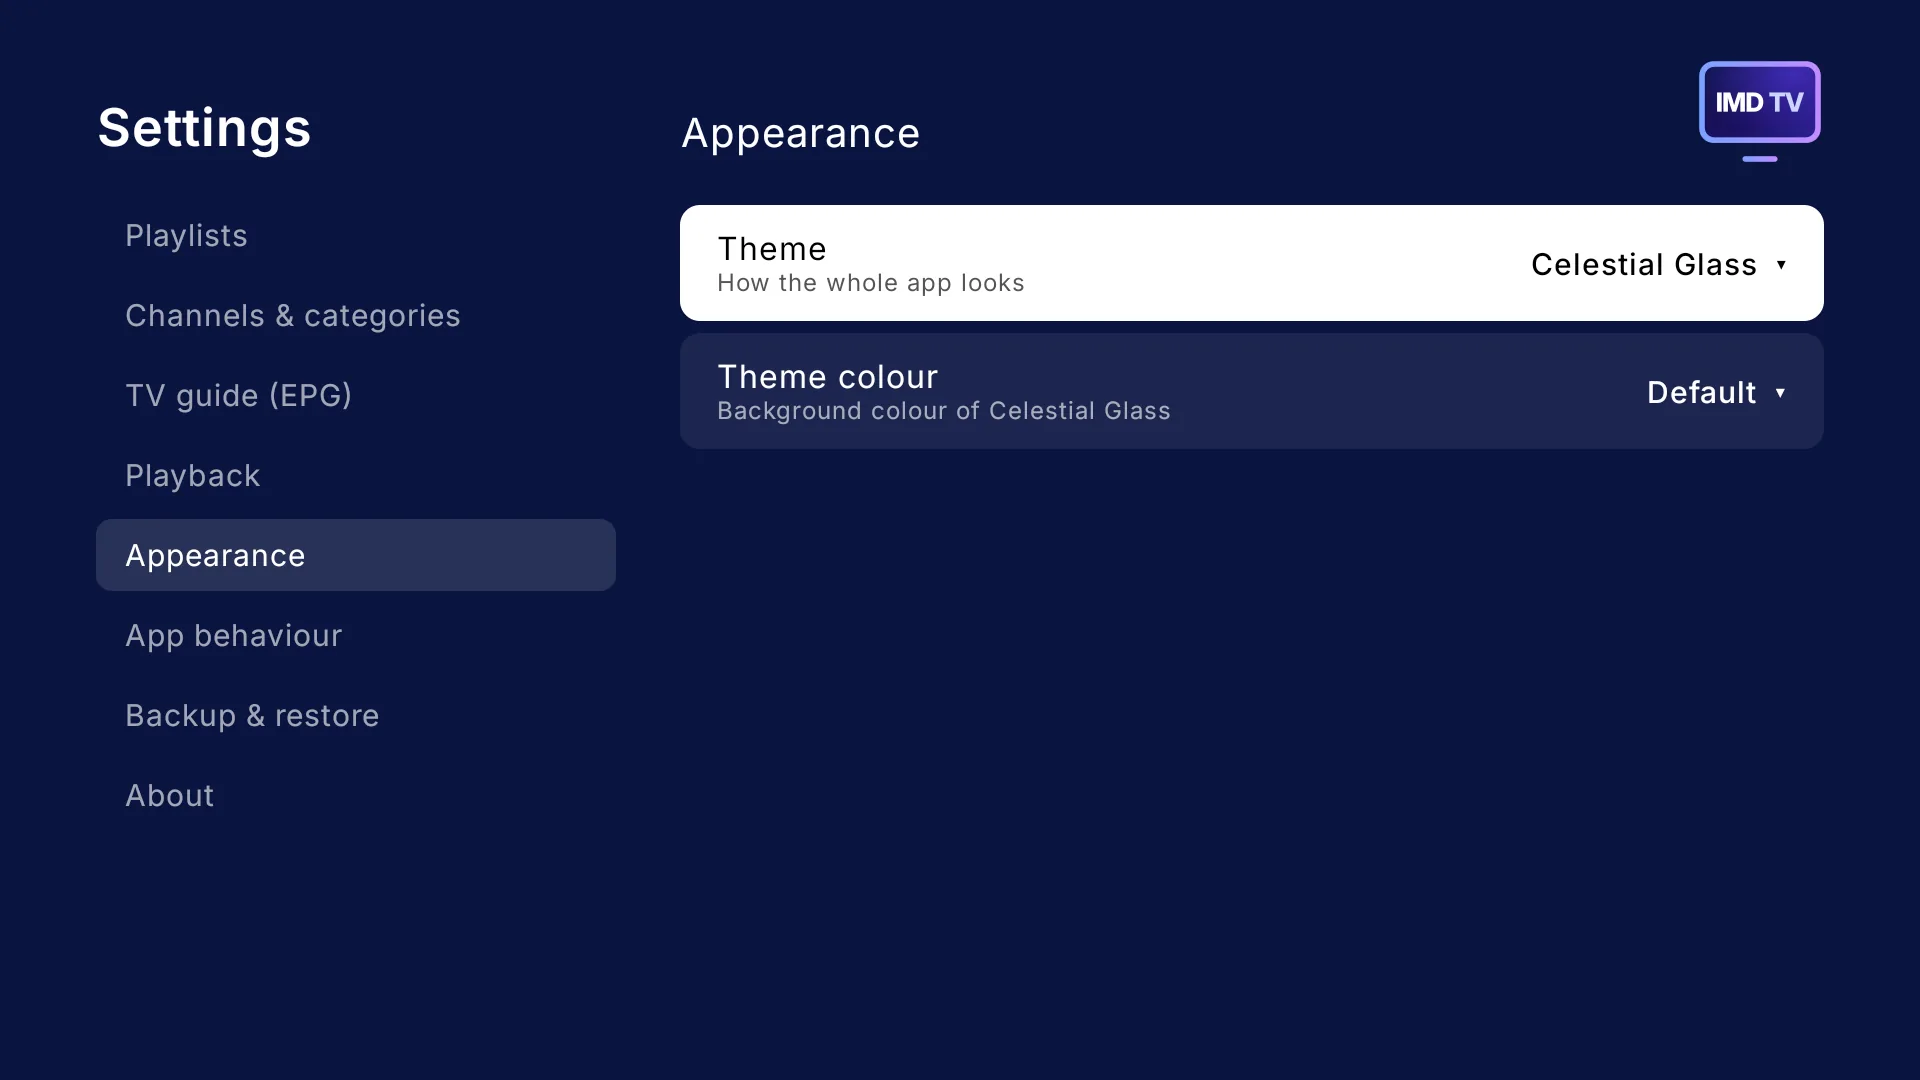
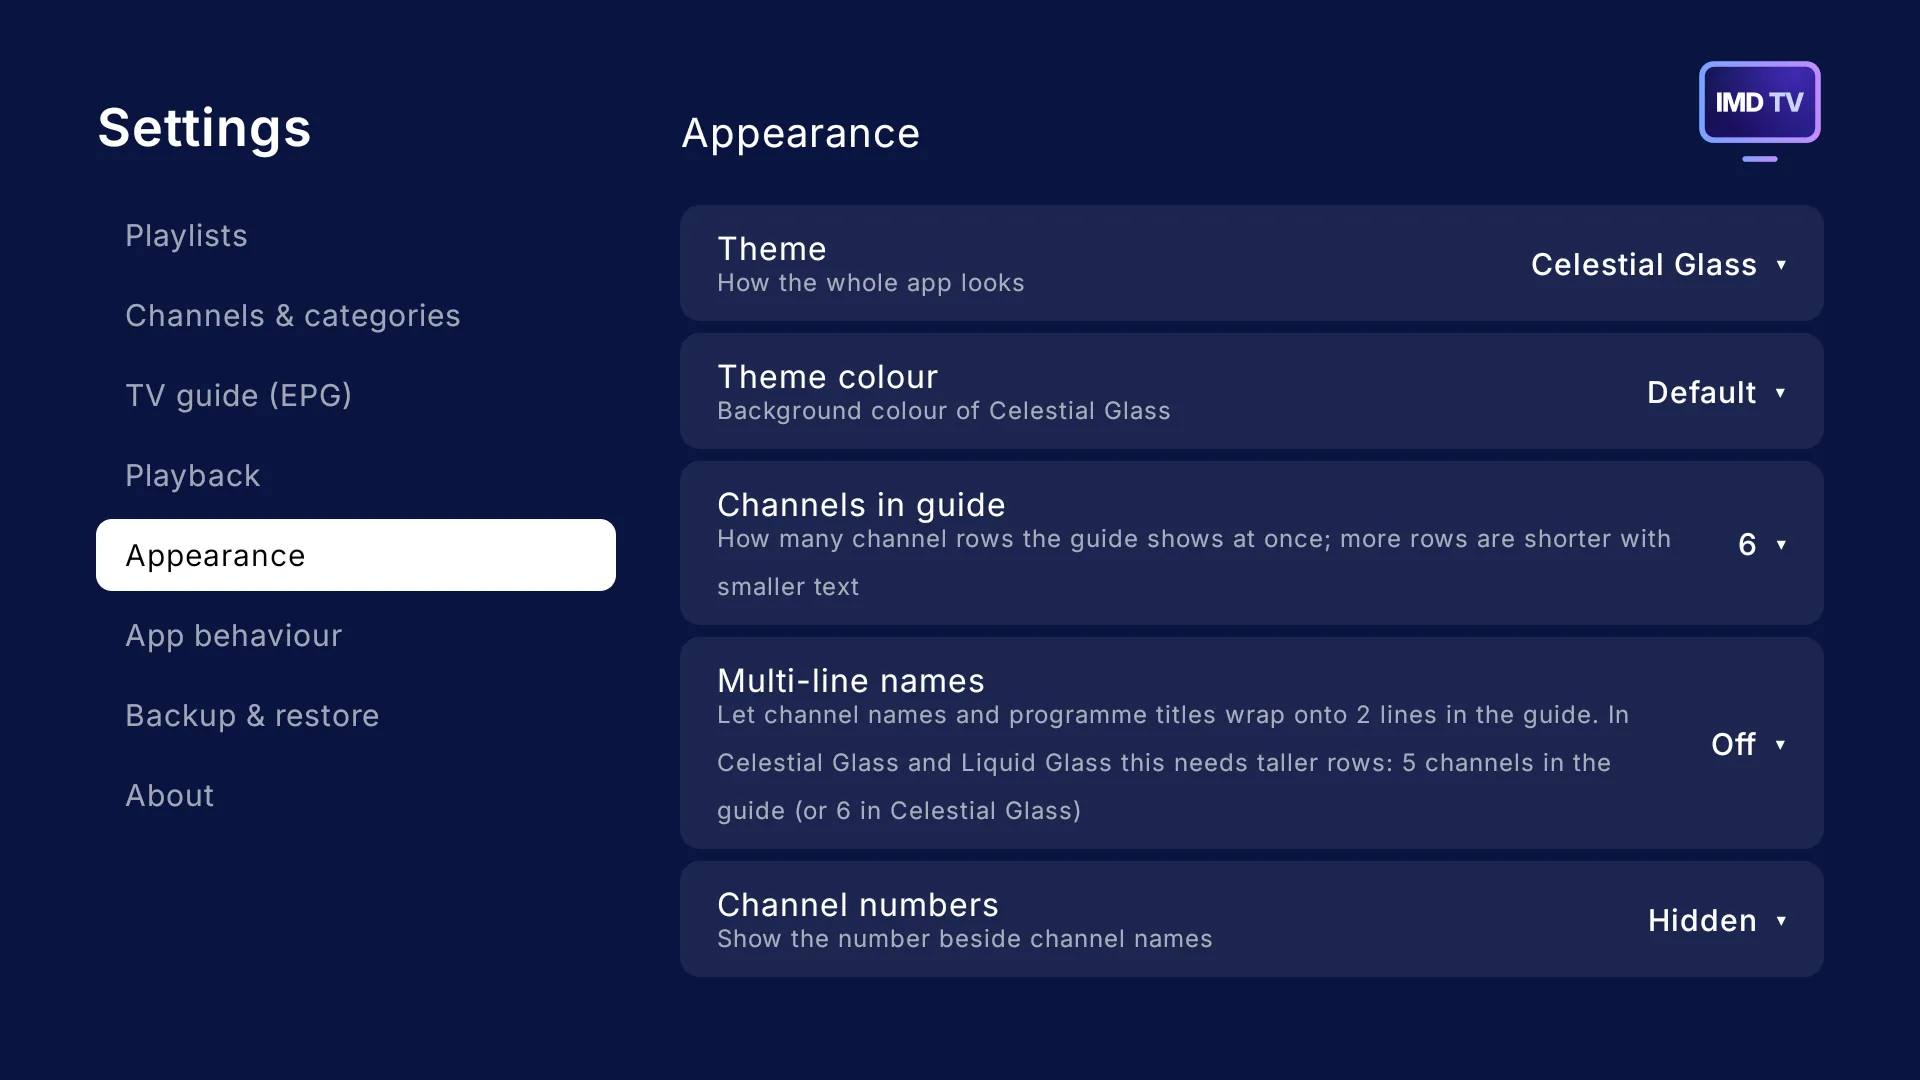
Site: settings screenshots for Appearance and App behaviour (0.4.0)

diff --git a/site/index.html b/site/index.html
@@ -146,8 +146,8 @@
         <figure class="shot"><img src="img/settings/channels-page.webp" width="1920" height="1080" loading="lazy" alt="Settings, Channels: channel logo order, channel name clean-up and hide header channels"><figcaption>Channels</figcaption></figure>
         <figure class="shot"><img src="img/settings/categories-page.webp" width="1920" height="1080" loading="lazy" alt="Settings, Categories: languages and countries, your categories, manage provider categories and category name clean-up"><figcaption>Categories</figcaption></figure>
         <figure class="shot"><img src="img/settings/recording.webp" width="1920" height="1080" loading="lazy" alt="Settings, Recording: recording switch, save to, free space, start early, end late and keep the box awake"><figcaption>Recording</figcaption></figure>
-        <figure class="shot"><img src="img/settings/appearance.webp" width="1920" height="1080" loading="lazy" alt="Settings, Appearance: theme and theme colour"><figcaption>Appearance</figcaption></figure>
-        <figure class="shot"><img src="img/settings/behaviour.webp" width="1920" height="1080" loading="lazy" alt="Settings, App behaviour: last channel on start, confirm exit, start on boot, show date and time, show ping"><figcaption>App behaviour</figcaption></figure>
+        <figure class="shot"><img src="img/settings/appearance.webp" width="1920" height="1080" loading="lazy" alt="Settings, Appearance: theme, theme colour, channels in guide, multi-line names and channel numbers"><figcaption>Appearance</figcaption></figure>
+        <figure class="shot"><img src="img/settings/behaviour.webp" width="1920" height="1080" loading="lazy" alt="Settings, App behaviour: last channel on start, change channel with, Back in TV guide, confirm exit, start on boot, show date and time"><figcaption>App behaviour</figcaption></figure>
       </div>
 
       <h3 class="more-title">And all of this, free</h3>
